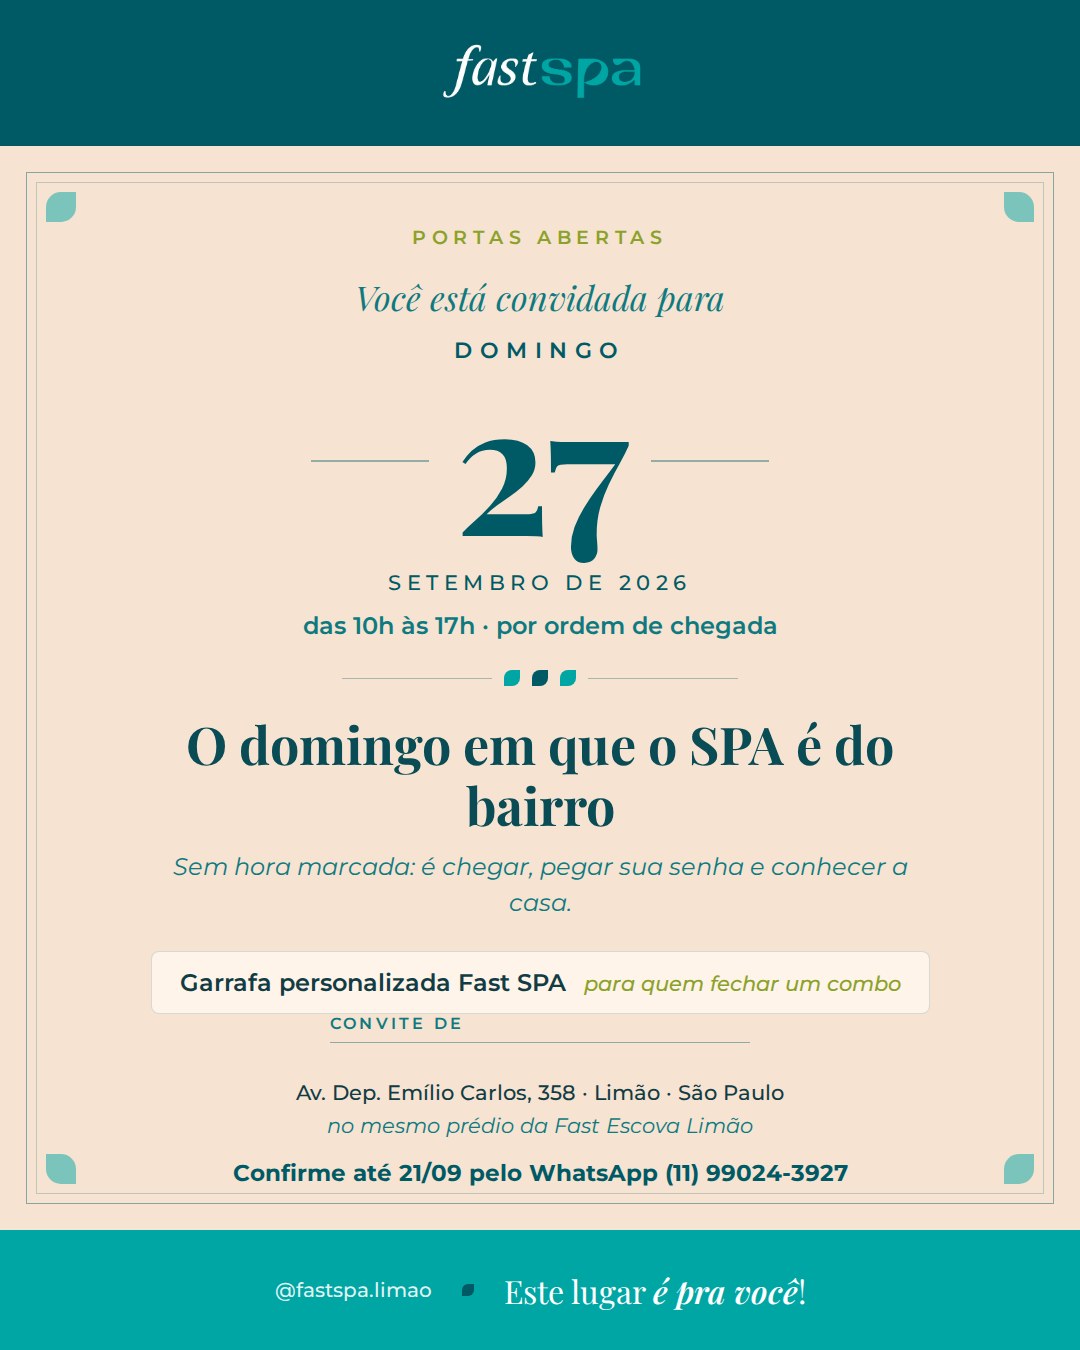
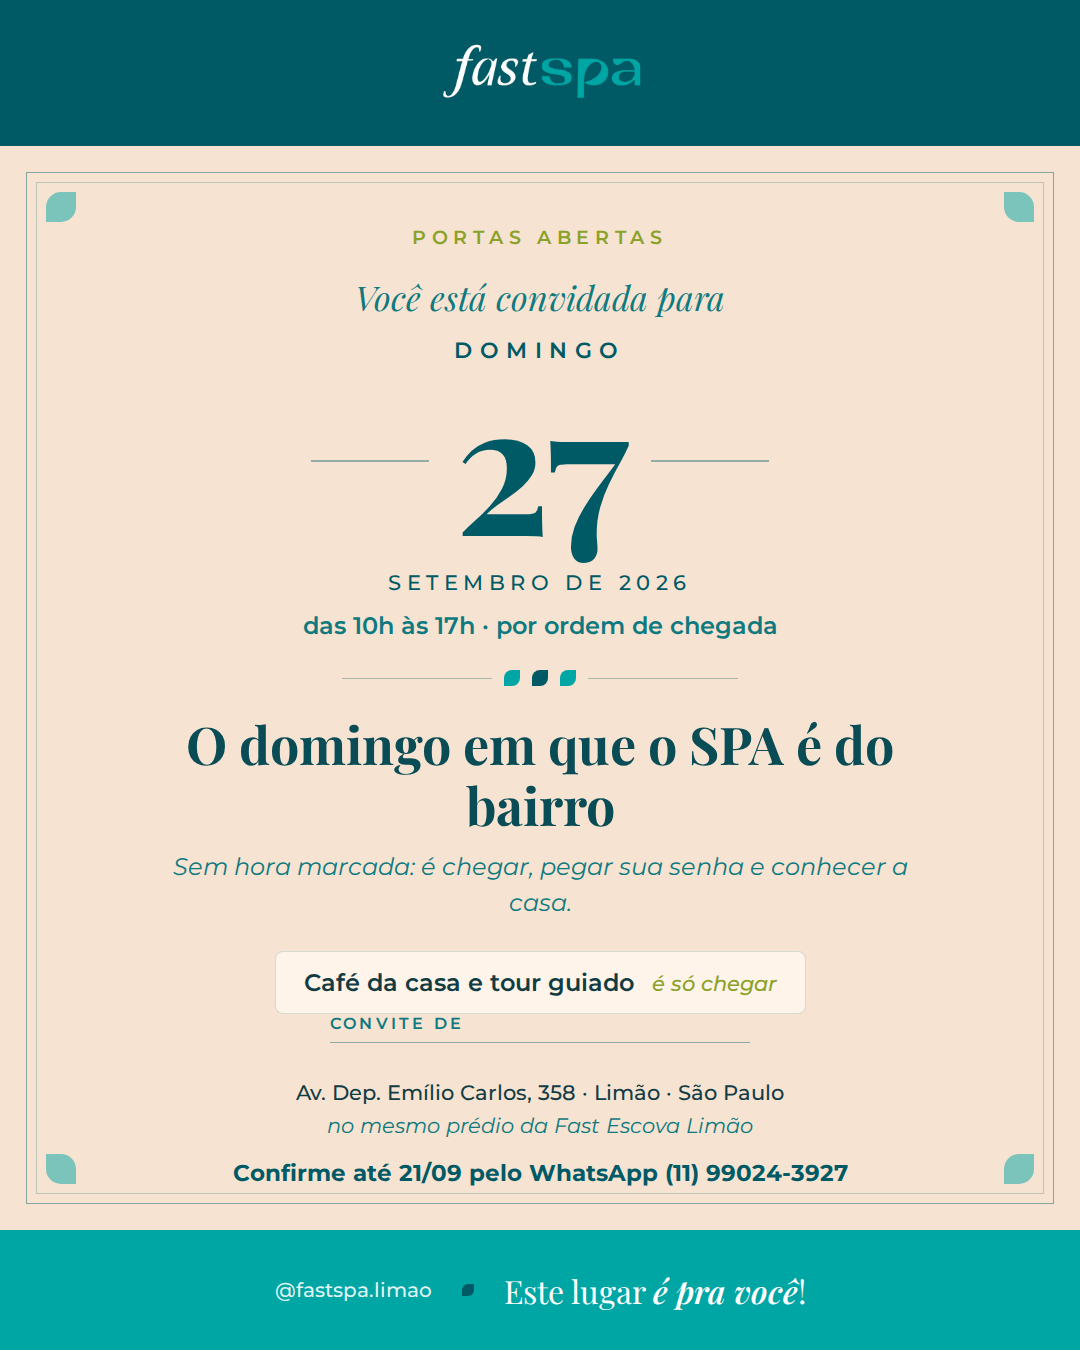
content: a garrafa vira surpresa de fechamento
Tira a garrafa de todas as peças e dos textos de WhatsApp: ela deixa de
ser anunciada e passa a ser revelada pela equipe no momento da decisão de
compra. No lugar, as peças de 25 a 27 anunciam hospitalidade — welcome
drink, tour guiado e café da casa —, que traz gente pela porta sem
prometer nada atrelado a compra.

Documenta a regra da surpresa e a fala de fechamento no plano, e corrige
a orientação anterior de deixar a garrafa à vista na recepção.

Claude-Session: https://claude.ai/code/session_01RuVKoBzerrtwzTvPt2dZAB

Changed region(s): [[0.1528, 0.7156, 0.825, 0.7467]]

diff --git a/docs/convites/gerar_convites.py b/docs/convites/gerar_convites.py
@@ -36,8 +36,8 @@ CARDS = [
         dow="sexta-feira", num="25", mes="setembro de 2026", horas="das 10h às 20h · hora marcada",
         titulo="O dia das clientes de casa",
         sub="O SPA abre primeiro para quem já é da Fast, antes do bairro.",
-        cortesia="Garrafa personalizada Fast SPA",
-        cortesia_dir="para quem fechar um combo",
+        cortesia="Welcome drink e tour guiado",
+        cortesia_dir="por nossa conta",
         campo="Convite de", campo2="seu horário",
     ),
     dict(
@@ -47,8 +47,8 @@ CARDS = [
         dow="sábado", num="26", mes="setembro de 2026", horas="das 9h às 19h · hora marcada",
         titulo="O dia de trazer quem você gosta",
         sub="Venha conhecer a casa com quem você chamaria para um café.",
-        cortesia="Garrafa personalizada Fast SPA",
-        cortesia_dir="uma para cada combo fechado",
+        cortesia="Welcome drink para vocês duas",
+        cortesia_dir="por nossa conta",
         campo="Convite de", campo2="seu horário",
     ),
     dict(
@@ -58,8 +58,8 @@ CARDS = [
         dow="domingo", num="27", mes="setembro de 2026", horas="das 10h às 17h · por ordem de chegada",
         titulo="O domingo em que o SPA é do bairro",
         sub="Sem hora marcada: é chegar, pegar sua senha e conhecer a casa.",
-        cortesia="Garrafa personalizada Fast SPA",
-        cortesia_dir="para quem fechar um combo",
+        cortesia="Café da casa e tour guiado",
+        cortesia_dir="é só chegar",
         campo="Convite de", campo2="",
     ),
 ]

diff --git a/docs/inauguracao-spa-2026.md b/docs/inauguracao-spa-2026.md
@@ -33,9 +33,9 @@ painel: https://claude.ai/code/artifact/d3d9ad76-e084-4218-9567-6514d4b0d4bb
 | Dia | Formato | Público | Convites | Presença est. |
 |---|---|---|---|---|
 | **Qui 24/09** · 18h–22h | Coquetel, corte de fita 19h30, tour, 2 estações de demonstração (10 min) — **único dia com cortesia** | Franqueadora, sócios, fornecedores, imprensa e perfis do bairro, 10 influenciadoras, comércio vizinho, equipe e família | 70 | ~50 |
-| **Sex 25/09** · 10h–20h | Hora marcada, tour, conversa com a equipe, welcome drink e oferta de combo | Top 20% da base da Escova + 10 lugares da franqueadora | 60 | ~30 |
-| **Sáb 26/09** · 9h–19h | Blocos de 30 min, música, mini-bar, oferta de combo, mecânica "traga uma amiga" | Clientes ativas da Escova (visita ≤60d) + 1 acompanhante cada | 80 (40+40) | ~40 |
-| **Dom 27/09** · 10h–17h | Sem hora marcada, senha por ordem de chegada, tour curto e oferta de combo | Base inativa (60–180d), lista do Instagram, vizinhança, quem passou na porta | 90 | ~45 |
+| **Sex 25/09** · 10h–20h | Hora marcada, tour, conversa com a equipe e welcome drink | Top 20% da base da Escova + 10 lugares da franqueadora | 60 | ~30 |
+| **Sáb 26/09** · 9h–19h | Blocos de 30 min, música, mini-bar, welcome drink, mecânica "traga uma amiga" | Clientes ativas da Escova (visita ≤60d) + 1 acompanhante cada | 80 (40+40) | ~40 |
+| **Dom 27/09** · 10h–17h | Sem hora marcada, senha por ordem de chegada, tour curto e café da casa | Base inativa (60–180d), lista do Instagram, vizinhança, quem passou na porta | 90 | ~45 |
 
 **Total: 300 convites nominais → ~165 presenças.**
 A quinta usa **70%** de comparecimento (convite institucional, com cortesia).
@@ -49,8 +49,8 @@ mimo pequeno de chegada (uma água saborizada, uma amostra) que não custe marge
 - **Quinta** — quem vem por relação, não por serviço. Não ocupa cadeira e gera conteúdo
   para os três dias seguintes.
 - **Sexta** — é o dia que vira receita recorrente. Sem cortesia, a venda acontece na
-  conversa: tour, equipe apresentando os protocolos e o combo com a garrafa como
-  fechamento. É também o dia da foto oficial: não pode estar vazio.
+  conversa: tour, equipe apresentando os protocolos e o combo fechado com a garrafa
+  — que ninguém sabe que existe. É também o dia da foto oficial: não pode estar vazio.
 - **Sábado** — dia de maior fluxo natural. A acompanhante é lead novo com prova social
   embutida (chega já ouvindo elogio de quem confia na casa).
 - **Domingo** — não canibaliza a agenda da Escova e absorve volume sem risco de frustrar VIP.
@@ -95,8 +95,24 @@ Mande fazer **40 garrafas** — a margem cobre um sábado acima da média, e a s
 continua valendo: como a garrafa está presa à compra, não vira encalhe, vira
 gatilho de venda no mês seguinte.
 
-**Onde a garrafa fica:** à vista, na recepção, com o preço do combo escrito ao lado.
-Brinde que ninguém vê não vende combo.
+### A garrafa é surpresa
+
+**Regra:** a garrafa **não aparece** em convite, Stories, WhatsApp, cartaz ou balcão.
+Ela fica guardada e sai na mão da atendente no momento da decisão.
+
+Motivo: a garrafa está presa a uma compra de R$ 437 a R$ 457 — ela não traz
+ninguém pela porta. Anunciada, só avisa a convidada de que vai ter venda, e
+convite que cheira a abordagem comercial derruba confirmação. Guardada, ela vira
+o empurrão final de quem já está decidindo.
+
+**Fala da equipe, no fechamento:**
+
+> "Fechando hoje, o combo sai com a garrafa personalizada do SPA — é só destes
+> quatro dias." *(dita já com a garrafa na mão)*
+
+O que a peça anuncia no lugar: **welcome drink, tour guiado e café da casa** —
+hospitalidade custa pouco, traz gente pela porta e não promete nada que dependa
+de compra.
 
 ### Combos da tabela oficial
 
@@ -116,7 +132,7 @@ Brinde que ninguém vê não vende combo.
 | Sexta com <30 confirmações até 21/09 | Puxe 15 nomes do topo da lista F para a sexta e reponha o sábado com a lista G. Sexta vazia é o pior cenário. |
 | Domingo com fila na porta | Senha numerada + cadastro no WhatsApp na entrada. Quem não for atendido sai com **voucher datado** para a semana seguinte. |
 | Sobra de capacidade em qualquer dia | Libere no Stories com 3h de antecedência: "10 lugares abertos hoje até 17h". Lugar vazio não volta. |
-| **A oferta que converte** | De sexta a domingo a convidada não experimenta o serviço: quem converte é a equipe. Combo Fast Spa Detox (R$ 457) e Combo Fast Spa Casual (R$ 437), com a **garrafa personalizada** como fechamento. Todo mundo do time precisa saber os dois preços de cor e **mostrar a garrafa antes de falar o valor**. |
+| **A oferta que converte** | De sexta a domingo a convidada não experimenta o serviço: quem converte é a equipe. Combo Fast Spa Detox (R$ 457) e Combo Fast Spa Casual (R$ 437), com a **garrafa guardada como fechamento** — revelada só quando a cliente está decidindo, nunca antes. Todo mundo do time sabe os dois preços de cor. |
 
 ---
 
@@ -179,9 +195,10 @@ Assinatura de rodapé: *Este lugar é pra você!* — a mesma da tabela.
 > Para peça grande ou impressa, pedir o **logo vetorial** (AI/SVG/EPS) à franqueadora:
 > o recorte atual é raster e só aguenta bem até o tamanho usado aqui.
 
-**Cortesia x garrafa:** só a **quinta 24/09** tem experiência-cortesia. De sexta a
-domingo as peças anunciam a **garrafa personalizada Fast SPA para quem fechar um
-combo** — nenhuma arte promete serviço gratuito nem brinde por comparecer.
+**O que cada peça anuncia:** a **quinta 24/09** anuncia a experiência-cortesia
+(único dia com serviço gratuito). De sexta a domingo as peças anunciam apenas
+hospitalidade — welcome drink, tour guiado, café da casa. **A garrafa não é
+anunciada em lugar nenhum: é surpresa de fechamento** (ver seção 4).
 
 Para regerar as artes (se mudar horário, texto ou logo): edite
 `docs/convites/gerar_convites.py` e rode `python3 docs/convites/gerar_convites.py`
@@ -222,9 +239,7 @@ Abrimos o Fast SPA Limão e sexta, 25/09, é o dia reservado para as clientes de
 — antes de abrir para o bairro.
 
 Separei um horário no seu nome: [HORA], para você conhecer a casa, falar com a
-equipe e tomar um café com a gente.
-
-Quem fechar um combo na inauguração leva a garrafa personalizada do Fast SPA.
+equipe e tomar um café com a gente. O welcome drink é por nossa conta.
 
 Responda 1 para confirmar esse horário ou 2 para escolher outro.
 ```
@@ -234,8 +249,7 @@ Responda 1 para confirmar esse horário ou 2 para escolher outro.
 [Nome], sábado 26/09 o Fast SPA Limão abre para você e uma amiga 🧖♀
 
 Venham conhecer a casa nova no seu horário: [HORA]. Tem música, mini-bar e
-condição de inauguração nos combos — quem fechar leva a garrafa personalizada
-do Fast SPA.
+welcome drink para as duas.
 
 Av. Dep. Emílio Carlos, 358 · Limão
 (no mesmo prédio da Fast Escova)
@@ -247,8 +261,8 @@ Responda 1 com o nome da amiga ou 2 se preferir domingo.
 ```
 [Nome], domingo 27/09 o Fast SPA Limão abre para o bairro, das 10h às 17h.
 
-Sem hora marcada: é chegar, pegar sua senha e conhecer a casa. Quem aproveitar a
-condição de inauguração nos combos leva a garrafa personalizada do Fast SPA.
+Sem hora marcada: é chegar, pegar sua senha e conhecer a casa. Tem café e tour
+guiado esperando por você.
 
 Av. Dep. Emílio Carlos, 358 · Limão
 (no mesmo prédio da Fast Escova)
